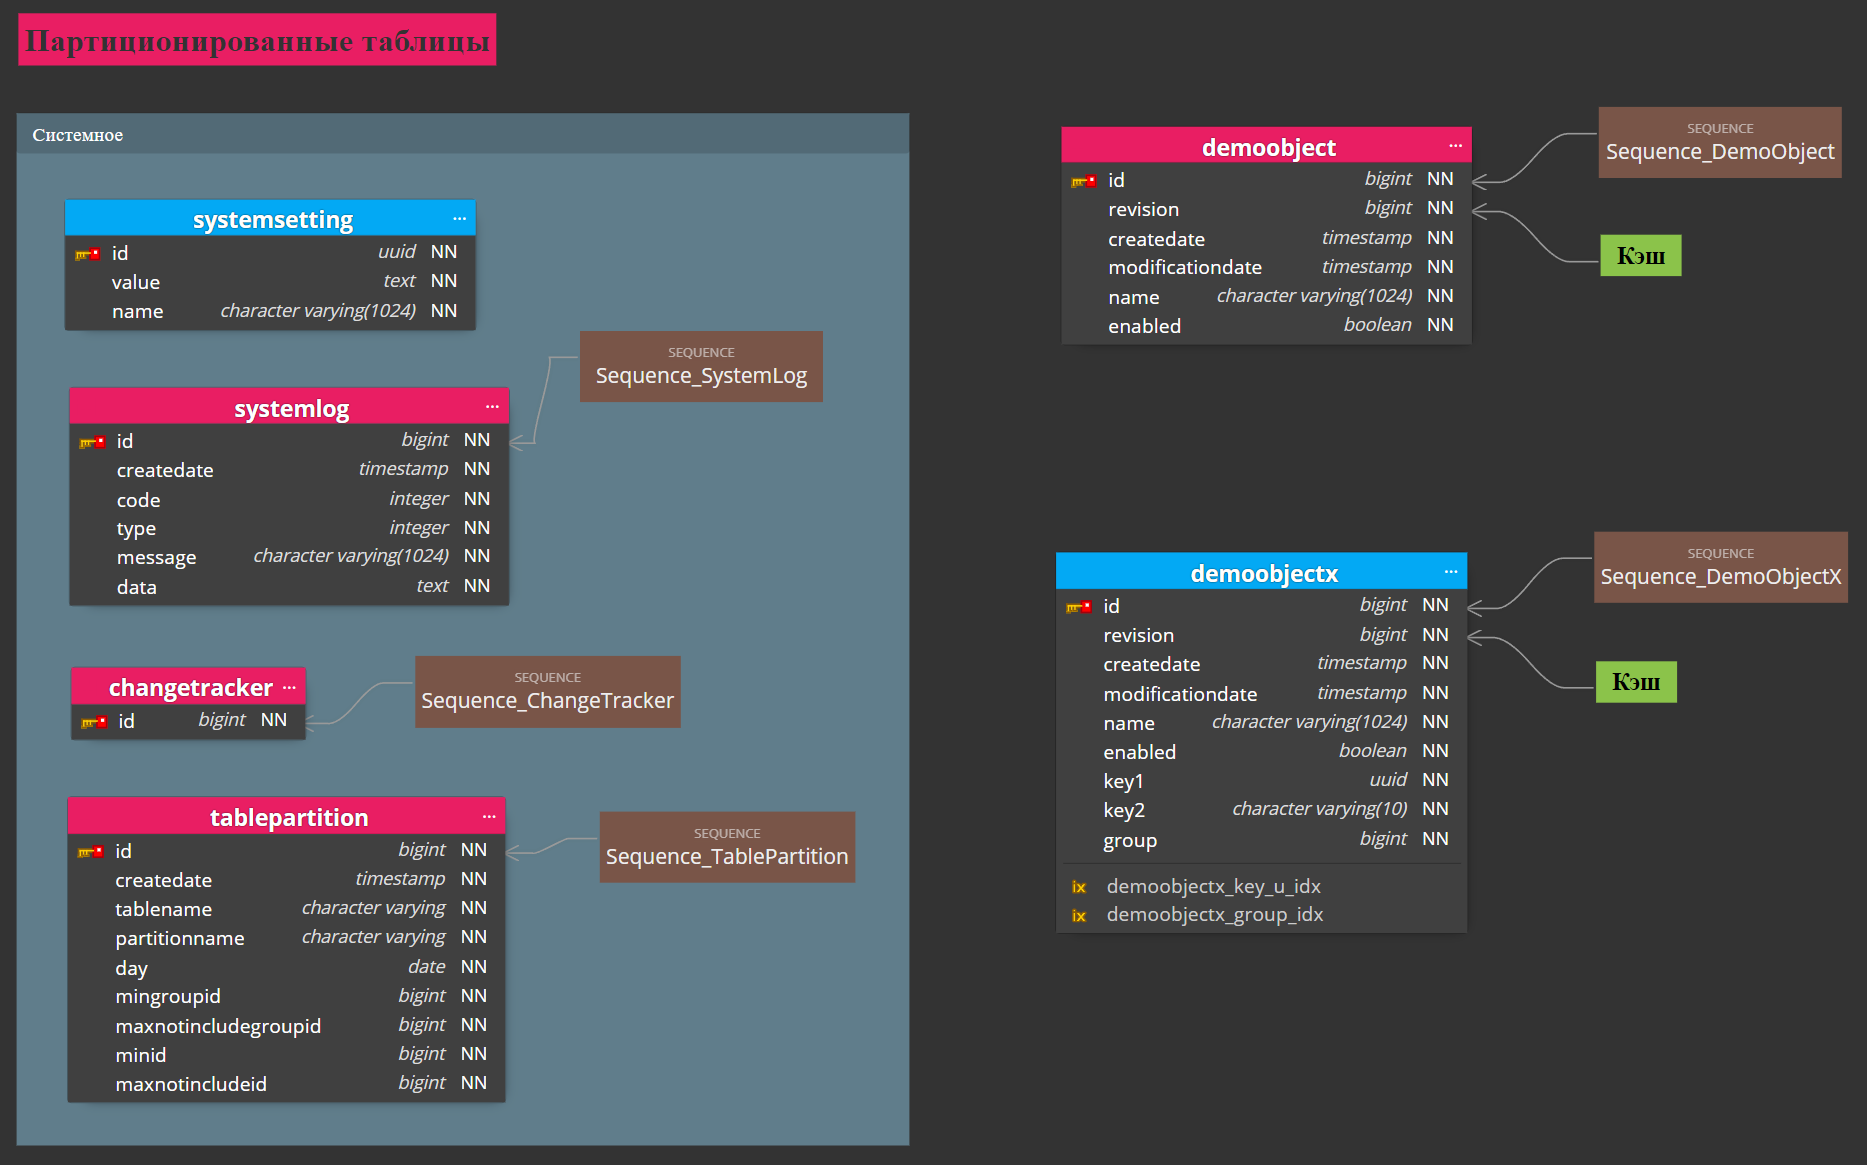
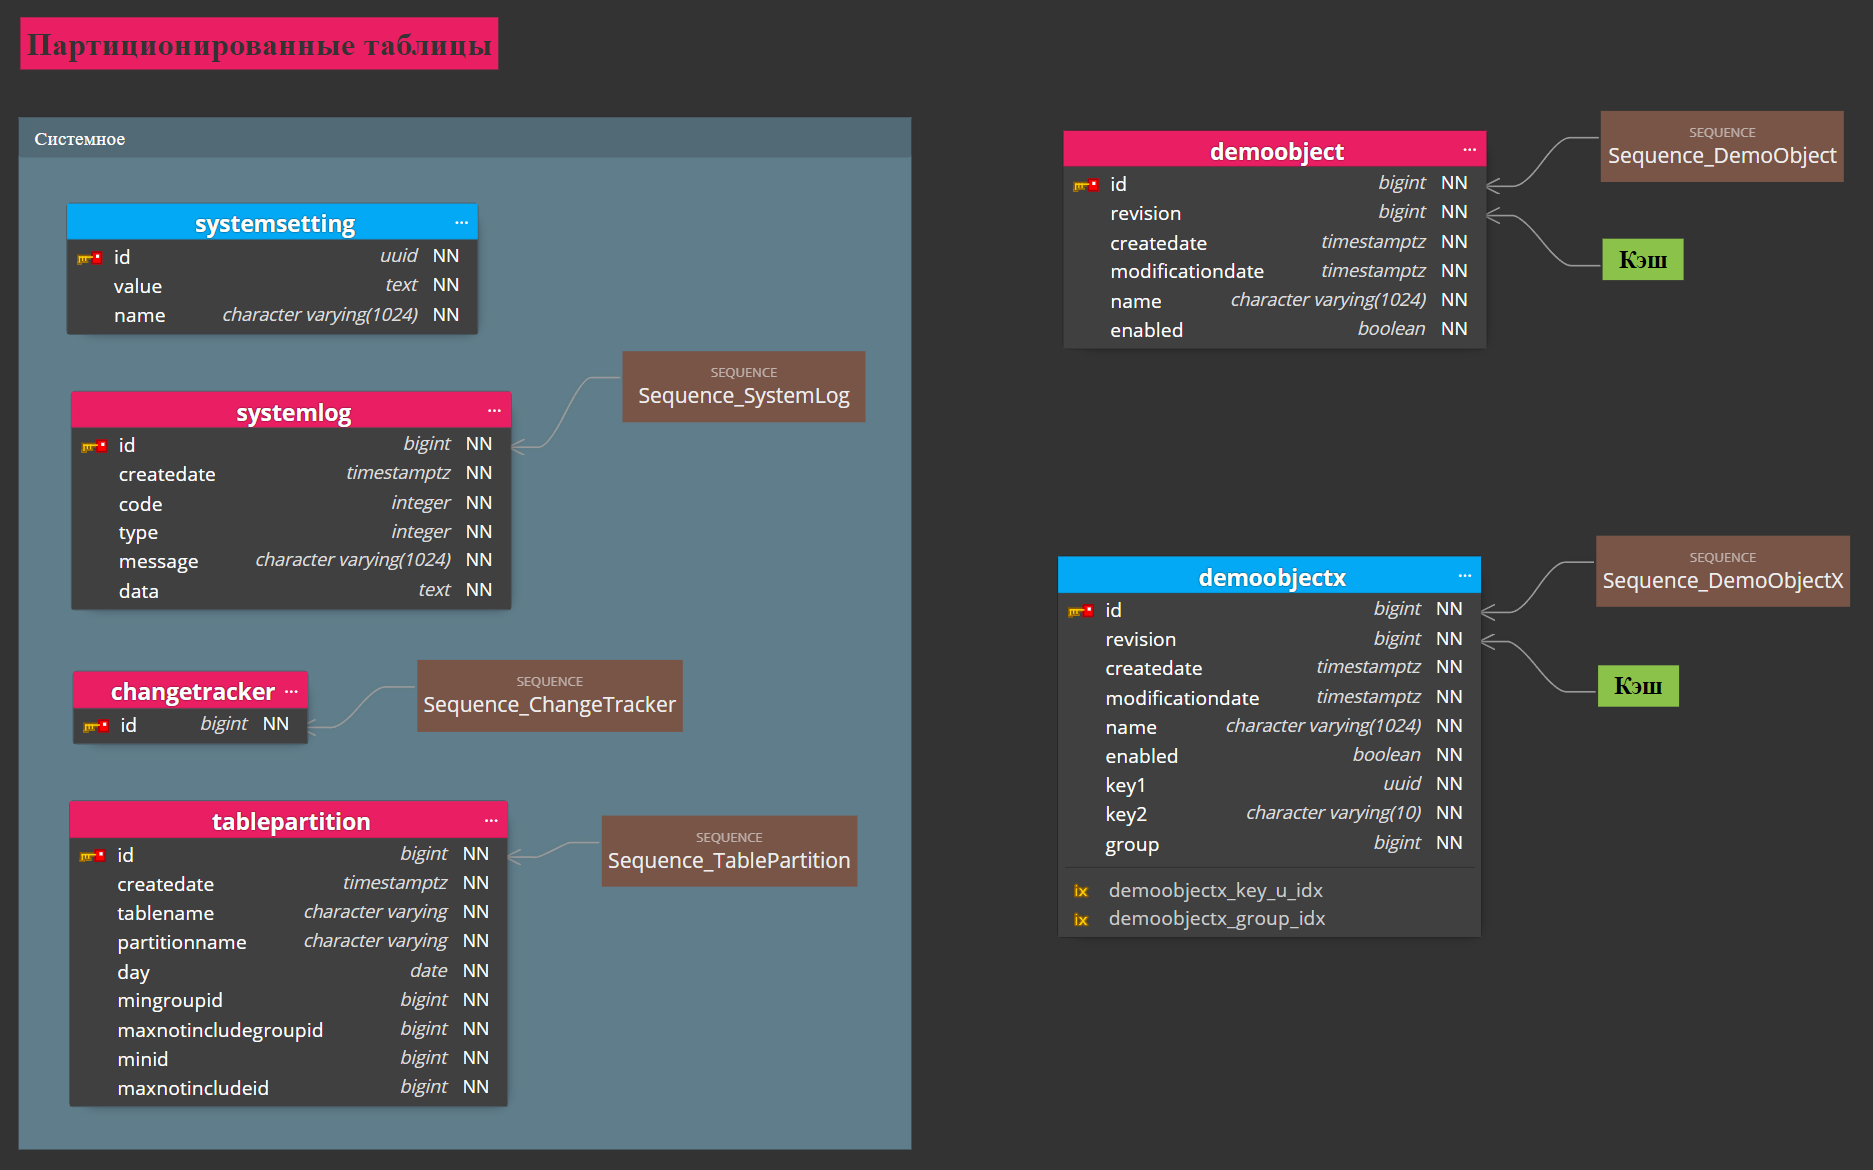
time

diff --git a/src/DemoServer.Processing.DataAccess.Postgresql/EfModels/ProcessingDbContext.cs b/src/DemoServer.Processing.DataAccess.Postgresql/EfModels/ProcessingDbContext.cs
@@ -36,9 +36,7 @@ public partial class ProcessingDbContext : DbContext
             entity.Property(e => e.Id)
                 .ValueGeneratedNever()
                 .HasColumnName("id");
-            entity.Property(e => e.Createdate)
-                .HasColumnType("timestamp without time zone")
-                .HasColumnName("createdate");
+            entity.Property(e => e.Createdate).HasColumnName("createdate");
             entity.Property(e => e.Enabled).HasColumnName("enabled");
             entity.Property(e => e.Group).HasColumnName("group");
             entity.Property(e => e.Key1).HasColumnName("key1");
@@ -46,9 +44,7 @@ public partial class ProcessingDbContext : DbContext
                 .IsRequired()
                 .HasMaxLength(10)
                 .HasColumnName("key2");
-            entity.Property(e => e.Modificationdate)
-                .HasColumnType("timestamp without time zone")
-                .HasColumnName("modificationdate");
+            entity.Property(e => e.Modificationdate).HasColumnName("modificationdate");
             entity.Property(e => e.Name)
                 .IsRequired()
                 .HasMaxLength(1024)
@@ -76,13 +72,9 @@ public partial class ProcessingDbContext : DbContext
             entity.Property(e => e.Id)
                 .ValueGeneratedNever()
                 .HasColumnName("id");
-            entity.Property(e => e.Createdate)
-                .HasColumnType("timestamp without time zone")
-                .HasColumnName("createdate");
+            entity.Property(e => e.Createdate).HasColumnName("createdate");
             entity.Property(e => e.Enabled).HasColumnName("enabled");
-            entity.Property(e => e.Modificationdate)
-                .HasColumnType("timestamp without time zone")
-                .HasColumnName("modificationdate");
+            entity.Property(e => e.Modificationdate).HasColumnName("modificationdate");
             entity.Property(e => e.Name)
                 .IsRequired()
                 .HasMaxLength(1024)
@@ -100,9 +92,7 @@ public partial class ProcessingDbContext : DbContext
                 .ValueGeneratedNever()
                 .HasColumnName("id");
             entity.Property(e => e.Code).HasColumnName("code");
-            entity.Property(e => e.Createdate)
-                .HasColumnType("timestamp without time zone")
-                .HasColumnName("createdate");
+            entity.Property(e => e.Createdate).HasColumnName("createdate");
             entity.Property(e => e.Data)
                 .IsRequired()
                 .HasColumnName("data");
@@ -122,9 +112,7 @@ public partial class ProcessingDbContext : DbContext
             entity.Property(e => e.Id)
                 .ValueGeneratedNever()
                 .HasColumnName("id");
-            entity.Property(e => e.Createdate)
-                .HasColumnType("timestamp without time zone")
-                .HasColumnName("createdate");
+            entity.Property(e => e.Createdate).HasColumnName("createdate");
             entity.Property(e => e.Day).HasColumnName("day");
             entity.Property(e => e.Maxnotincludegroupid).HasColumnName("maxnotincludegroupid");
             entity.Property(e => e.Maxnotincludeid).HasColumnName("maxnotincludeid");
@@ -162,5 +150,9 @@ public partial class ProcessingDbContext : DbContext
         modelBuilder.HasSequence("sequence_demoobjectx");
         modelBuilder.HasSequence("sequence_systemlog");
         modelBuilder.HasSequence("sequence_tablepartition");
+
+        OnModelCreatingPartial(modelBuilder);
     }
+
+    partial void OnModelCreatingPartial(ModelBuilder modelBuilder);
 }

diff --git a/src/DemoServer.Processing.Common/WellknownDomainObjectFields.cs b/src/DemoServer.Processing.Common/WellknownDomainObjectFields.cs
@@ -71,7 +71,7 @@ public static class WellknownDomainObjectFields
         /// Дата создания.
         /// </summary>
         [Description("Дата создания")]
-        [SchemaMapperField(typeof(DateTime), Where = true, Order = true)]
+        [SchemaMapperField(typeof(DateTimeOffset), Where = true, Order = true)]
         public static readonly Guid CreateDate = new("FABB42ED-5C3A-4234-8BF6-0CFFA10BAA18");
 
         /// <summary>
@@ -118,7 +118,7 @@ public static class WellknownDomainObjectFields
         /// Дата создания.
         /// </summary>
         [Description("Дата создания")]
-        [SchemaMapperField(typeof(DateTime), Where = true, Order = true)]
+        [SchemaMapperField(typeof(DateTimeOffset), Where = true, Order = true)]
         public static readonly Guid CreateDate = new("E2B3ECF0-17B5-4212-9DA0-3C05F17E5C3F");
 
         /// <summary>
@@ -187,14 +187,14 @@ public static class WellknownDomainObjectFields
         /// Дата создания.
         /// </summary>
         [Description("Дата создания")]
-        [SchemaMapperField(typeof(DateTime), Where = true, Order = true)]
+        [SchemaMapperField(typeof(DateTimeOffset), Where = true, Order = true)]
         public static readonly Guid CreateDate = new("19D14B24-D899-4AD9-B97B-AE7A7B12FFF8");
 
         /// <summary>
         /// Дата модификации.
         /// </summary>
         [Description("Дата модификации")]
-        [SchemaMapperField(typeof(DateTime), Where = true, Order = true, UpdateMode = SchemaMapperFieldUpdateMode.UpdateDirect)]
+        [SchemaMapperField(typeof(DateTimeOffset), Where = true, Order = true, UpdateMode = SchemaMapperFieldUpdateMode.UpdateDirect)]
         public static readonly Guid ModificationDate = new("F69BAE78-0FBD-426A-971C-63DCC6D7F4F7");
 
         /// <summary>
@@ -234,14 +234,14 @@ public static class WellknownDomainObjectFields
         /// Дата создания.
         /// </summary>
         [Description("Дата создания")]
-        [SchemaMapperField(typeof(DateTime), Where = true, Order = true)]
+        [SchemaMapperField(typeof(DateTimeOffset), Where = true, Order = true)]
         public static readonly Guid CreateDate = new("CD109655-1DC8-4E88-AA24-5C27E3EF778F");
 
         /// <summary>
         /// Дата модификации.
         /// </summary>
         [Description("Дата модификации")]
-        [SchemaMapperField(typeof(DateTime), Where = true, Order = true, UpdateMode = SchemaMapperFieldUpdateMode.UpdateDirect)]
+        [SchemaMapperField(typeof(DateTimeOffset), Where = true, Order = true, UpdateMode = SchemaMapperFieldUpdateMode.UpdateDirect)]
         public static readonly Guid ModificationDate = new("6862D6BB-3405-48C1-864C-46601DA5726B");
 
         /// <summary>

diff --git a/src/DemoServer.Processing.Model/DomainObjects/DemoObjectX/DomainObjectDemoObjectX.cs b/src/DemoServer.Processing.Model/DomainObjects/DemoObjectX/DomainObjectDemoObjectX.cs
@@ -98,8 +98,8 @@ public sealed class DomainObjectDemoObjectX : BaseDomainObjectMutable<DomainObje
         : base(entryPoint, data)
     {
         m_lockUpdate = lockUpdate;
-        CreateDate = data.CreateDate.SpecifyKindLocal();
-        ModificationDate = data.ModificationDate.SpecifyKindLocal();
+        CreateDate = data.CreateDate;
+        ModificationDate = data.ModificationDate;
         m_name = new(FieldsConstants.DemoObjectXNameMaxLength, data.Name);
         m_enabled = new(data.Enabled);
         Key1 = data.Key1;
@@ -116,7 +116,7 @@ public sealed class DomainObjectDemoObjectX : BaseDomainObjectMutable<DomainObje
         : base(entryPoint, identity)
     {
         m_lockUpdate = lockUpdate;
-        CreateDate = m_entryPoint.TimeService.NowDateTime;
+        CreateDate = m_entryPoint.TimeService.Now;
         ModificationDate = CreateDate;
         m_name = new(FieldsConstants.DemoObjectXNameMaxLength, template.Name);
         m_enabled = new(template.Enabled);
@@ -164,7 +164,7 @@ public sealed class DomainObjectDemoObjectX : BaseDomainObjectMutable<DomainObje
     }
 
     [DomainObjectFieldValue(DomainObjectDataTarget.Create, DomainObjectDataTarget.Update)]
-    public DateTime CreateDate
+    public DateTimeOffset CreateDate
     {
         [MethodImpl(MethodImplOptions.AggressiveInlining)]
         get;
@@ -192,7 +192,7 @@ public sealed class DomainObjectDemoObjectX : BaseDomainObjectMutable<DomainObje
     }
 
     [DomainObjectFieldValue(DomainObjectDataTarget.Create, DomainObjectDataTarget.Update)]
-    public DateTime ModificationDate
+    public DateTimeOffset ModificationDate
     {
         [MethodImpl(MethodImplOptions.AggressiveInlining)]
         get;
@@ -252,6 +252,6 @@ public sealed class DomainObjectDemoObjectX : BaseDomainObjectMutable<DomainObje
     {
         base.DoUpdate();
 
-        ModificationDate = m_entryPoint.TimeService.NowDateTime;
+        ModificationDate = m_entryPoint.TimeService.Now;
     }
 }

diff --git a/src/DemoServer.Processing.Model/DomainObjects/DemoObject/DomainObjectDemoObject.cs b/src/DemoServer.Processing.Model/DomainObjects/DemoObject/DomainObjectDemoObject.cs
@@ -74,8 +74,8 @@ public sealed class DomainObjectDemoObject : BaseDomainObjectMutable<DomainObjec
         : base(entryPoint, data)
     {
         m_lockUpdate = lockUpdate;
-        CreateDate = data.CreateDate.SpecifyKindLocal();
-        ModificationDate = data.ModificationDate.SpecifyKindLocal();
+        CreateDate = data.CreateDate;
+        ModificationDate = data.ModificationDate;
         m_name = new(FieldsConstants.DemoObjectNameMaxLength, data.Name);
         m_enabled = new(data.Enabled);
     }
@@ -89,7 +89,7 @@ public sealed class DomainObjectDemoObject : BaseDomainObjectMutable<DomainObjec
         : base(entryPoint, identity)
     {
         m_lockUpdate = lockUpdate;
-        CreateDate = m_entryPoint.TimeService.NowDateTime;
+        CreateDate = m_entryPoint.TimeService.Now;
         ModificationDate = CreateDate;
         m_name = new(FieldsConstants.DemoObjectNameMaxLength, template.Name);
         m_enabled = new(template.Enabled);
@@ -110,14 +110,14 @@ public sealed class DomainObjectDemoObject : BaseDomainObjectMutable<DomainObjec
     }
 
     [DomainObjectFieldValue(DomainObjectDataTarget.Create, DomainObjectDataTarget.Update)]
-    public DateTime CreateDate
+    public DateTimeOffset CreateDate
     {
         [MethodImpl(MethodImplOptions.AggressiveInlining)]
         get;
     }
 
     [DomainObjectFieldValue(DomainObjectDataTarget.Create, DomainObjectDataTarget.Update)]
-    public DateTime ModificationDate
+    public DateTimeOffset ModificationDate
     {
         [MethodImpl(MethodImplOptions.AggressiveInlining)]
         get;
@@ -222,6 +222,6 @@ public sealed class DomainObjectDemoObject : BaseDomainObjectMutable<DomainObjec
     {
         base.DoUpdate();
 
-        ModificationDate = m_entryPoint.TimeService.NowDateTime;
+        ModificationDate = m_entryPoint.TimeService.Now;
     }
 }

diff --git a/src/DemoServer.Processing.Model/Implements/PartitionsSponsor.cs b/src/DemoServer.Processing.Model/Implements/PartitionsSponsor.cs
@@ -94,7 +94,7 @@ public class PartitionsSponsor : BaseServiceScheduled
 
     public void Create(Tracer tracer)
     {
-        var nowDay = m_entryPoint.TimeService.NowDateTime.Date;
+        var nowDay = m_entryPoint.TimeService.Now.Date;
 
         if (m_lastDay.HasValue)
         {
@@ -206,7 +206,7 @@ public class PartitionsSponsor : BaseServiceScheduled
                     {
                         Id = id,
                         Day = nowDay,
-                        CreateDate = m_entryPoint.TimeService.NowDateTime,
+                        CreateDate = m_entryPoint.TimeService.Now,
                         MaxNotIncludeGroupId = nowDayPartitionInfo.MaxNotIncludeGroupId,
                         MaxNotIncludeId = nowDayPartitionInfo.MaxNotIncludeId,
                         MinGroupId = nowDayPartitionInfo.MinGroupId,
@@ -264,7 +264,7 @@ public class PartitionsSponsor : BaseServiceScheduled
                     {
                         Id = ComplexIdentity.Build(manager.Manager.Level, m_entryPoint.PartitionsDay.GetDayIndex(nowDay), m_mapperTablePartition.GetNextId(session)),
                         Day = nextDay,
-                        CreateDate = m_entryPoint.TimeService.NowDateTime,
+                        CreateDate = m_entryPoint.TimeService.Now,
                         MaxNotIncludeGroupId = nextDayPartitionInfo.MaxNotIncludeGroupId,
                         MaxNotIncludeId = nextDayPartitionInfo.MaxNotIncludeId,
                         MinGroupId = nextDayPartitionInfo.MinGroupId,

diff --git a/src/DemoServer.Processing.DataAccess.Postgresql/EfModelsOptimized/PdDemoObjectEntityType.cs b/src/DemoServer.Processing.DataAccess.Postgresql/EfModelsOptimized/PdDemoObjectEntityType.cs
@@ -32,7 +32,6 @@ namespace ShtrihM.DemoServer.Processing.DataAccess.PostgreSql.EfModelsOptimized
                 propertyInfo: typeof(PdDemoObject).GetProperty("Createdate", BindingFlags.Public | BindingFlags.Instance | BindingFlags.DeclaredOnly),
                 fieldInfo: typeof(PdDemoObject).GetField("<Createdate>k__BackingField", BindingFlags.NonPublic | BindingFlags.Instance | BindingFlags.DeclaredOnly));
             createdate.AddAnnotation("Relational:ColumnName", "createdate");
-            createdate.AddAnnotation("Relational:ColumnType", "timestamp without time zone");
 
             var enabled = runtimeEntityType.AddProperty(
                 "Enabled",
@@ -47,7 +46,6 @@ namespace ShtrihM.DemoServer.Processing.DataAccess.PostgreSql.EfModelsOptimized
                 propertyInfo: typeof(PdDemoObject).GetProperty("Modificationdate", BindingFlags.Public | BindingFlags.Instance | BindingFlags.DeclaredOnly),
                 fieldInfo: typeof(PdDemoObject).GetField("<Modificationdate>k__BackingField", BindingFlags.NonPublic | BindingFlags.Instance | BindingFlags.DeclaredOnly));
             modificationdate.AddAnnotation("Relational:ColumnName", "modificationdate");
-            modificationdate.AddAnnotation("Relational:ColumnType", "timestamp without time zone");
 
             var name = runtimeEntityType.AddProperty(
                 "Name",

diff --git a/src/DemoServer.Processing.DataAccess.Postgresql/EfModelsOptimized/DemoobjectxEntityType.cs b/src/DemoServer.Processing.DataAccess.Postgresql/EfModelsOptimized/DemoobjectxEntityType.cs
@@ -32,7 +32,6 @@ namespace ShtrihM.DemoServer.Processing.DataAccess.PostgreSql.EfModelsOptimized
                 propertyInfo: typeof(Demoobjectx).GetProperty("Createdate", BindingFlags.Public | BindingFlags.Instance | BindingFlags.DeclaredOnly),
                 fieldInfo: typeof(Demoobjectx).GetField("<Createdate>k__BackingField", BindingFlags.NonPublic | BindingFlags.Instance | BindingFlags.DeclaredOnly));
             createdate.AddAnnotation("Relational:ColumnName", "createdate");
-            createdate.AddAnnotation("Relational:ColumnType", "timestamp without time zone");
 
             var enabled = runtimeEntityType.AddProperty(
                 "Enabled",
@@ -69,7 +68,6 @@ namespace ShtrihM.DemoServer.Processing.DataAccess.PostgreSql.EfModelsOptimized
                 propertyInfo: typeof(Demoobjectx).GetProperty("Modificationdate", BindingFlags.Public | BindingFlags.Instance | BindingFlags.DeclaredOnly),
                 fieldInfo: typeof(Demoobjectx).GetField("<Modificationdate>k__BackingField", BindingFlags.NonPublic | BindingFlags.Instance | BindingFlags.DeclaredOnly));
             modificationdate.AddAnnotation("Relational:ColumnName", "modificationdate");
-            modificationdate.AddAnnotation("Relational:ColumnType", "timestamp without time zone");
 
             var name = runtimeEntityType.AddProperty(
                 "Name",

diff --git a/src/DemoServer.Processing.Model/DomainObjects/SystemLog/DomainObjectSystemLog.cs b/src/DemoServer.Processing.Model/DomainObjects/SystemLog/DomainObjectSystemLog.cs
@@ -5,7 +5,6 @@ using ShtrihM.Wattle3.DomainObjects.Interfaces;
 using System;
 using System.Runtime.CompilerServices;
 using ShtrihM.DemoServer.Processing.Generated.Interface;
-using ShtrihM.Wattle3.Primitives;
 
 namespace ShtrihM.DemoServer.Processing.Model.DomainObjects.SystemLog;
 
@@ -42,7 +41,7 @@ public sealed class DomainObjectSystemLog : BaseDomainObject<DomainObjectSystemL
         : base(data.Id, false)
     {
         Code = data.Code;
-        CreateDate = data.CreateDate.SpecifyKindLocal();
+        CreateDate = data.CreateDate;
         Data = data.Data;
         Message = data.Message;
         Type = data.Type;
@@ -56,7 +55,7 @@ public sealed class DomainObjectSystemLog : BaseDomainObject<DomainObjectSystemL
         : base(identity, true)
     {
         Code = template.Code;
-        CreateDate = timeService.NowDateTime;
+        CreateDate = timeService.Now;
         Data = template.Data;
         Message = template.Message;
         Type = template.Type;
@@ -77,7 +76,7 @@ public sealed class DomainObjectSystemLog : BaseDomainObject<DomainObjectSystemL
     }
 
     [DomainObjectFieldValue(DomainObjectDataTarget.Create)]
-    public DateTime CreateDate
+    public DateTimeOffset CreateDate
     {
         [MethodImpl(MethodImplOptions.AggressiveInlining)]
         get;

diff --git a/src/DemoServer.Processing.DataAccess.Postgresql/EfModelsOptimized/PdTablePartitionEntityType.cs b/src/DemoServer.Processing.DataAccess.Postgresql/EfModelsOptimized/PdTablePartitionEntityType.cs
@@ -32,7 +32,6 @@ namespace ShtrihM.DemoServer.Processing.DataAccess.PostgreSql.EfModelsOptimized
                 propertyInfo: typeof(PdTablePartition).GetProperty("Createdate", BindingFlags.Public | BindingFlags.Instance | BindingFlags.DeclaredOnly),
                 fieldInfo: typeof(PdTablePartition).GetField("<Createdate>k__BackingField", BindingFlags.NonPublic | BindingFlags.Instance | BindingFlags.DeclaredOnly));
             createdate.AddAnnotation("Relational:ColumnName", "createdate");
-            createdate.AddAnnotation("Relational:ColumnType", "timestamp without time zone");
 
             var day = runtimeEntityType.AddProperty(
                 "Day",

diff --git a/src/DemoServer.Processing.DataAccess.Postgresql/EfModelsOptimized/PdSystemLogEntityType.cs b/src/DemoServer.Processing.DataAccess.Postgresql/EfModelsOptimized/PdSystemLogEntityType.cs
@@ -39,7 +39,6 @@ namespace ShtrihM.DemoServer.Processing.DataAccess.PostgreSql.EfModelsOptimized
                 propertyInfo: typeof(PdSystemLog).GetProperty("Createdate", BindingFlags.Public | BindingFlags.Instance | BindingFlags.DeclaredOnly),
                 fieldInfo: typeof(PdSystemLog).GetField("<Createdate>k__BackingField", BindingFlags.NonPublic | BindingFlags.Instance | BindingFlags.DeclaredOnly));
             createdate.AddAnnotation("Relational:ColumnName", "createdate");
-            createdate.AddAnnotation("Relational:ColumnType", "timestamp without time zone");
 
             var data = runtimeEntityType.AddProperty(
                 "Data",

diff --git a/tests/DemoServer.Processing.Tests.Model/TestsDomainObjectSystemLog.cs b/tests/DemoServer.Processing.Tests.Model/TestsDomainObjectSystemLog.cs
@@ -24,7 +24,7 @@ public class TestsDomainObjectSystemLog : BaseTestsDomainObjects
                 ProviderRandomValues.GetInt32(),
                 ProviderRandomValues.GetString(),
                 ProviderRandomValues.GetString());
-        var nowDateTime = m_entryPoint.TimeService.NowDateTime;
+        var nowDateTime = m_entryPoint.TimeService.Now;
 
         await m_entryPoint.CreateAndUsingUnitOfWorkAsync(
             async (uow, cancellationToken) =>

diff --git a/src/DemoServer.Processing.Model/Interfaces/IDomainObjectDemoObjectX.cs b/src/DemoServer.Processing.Model/Interfaces/IDomainObjectDemoObjectX.cs
@@ -19,12 +19,12 @@ public interface IDomainObjectDemoObjectX : IDomainObject
     /// <summary>
     /// Дата создания.
     /// </summary>
-    DateTime CreateDate { get; }
+    DateTimeOffset CreateDate { get; }
 
     /// <summary>
     /// Дата модификации.
     /// </summary>
-    DateTime ModificationDate { get; }
+    DateTimeOffset ModificationDate { get; }
 
     /// <summary>
     /// Название.
